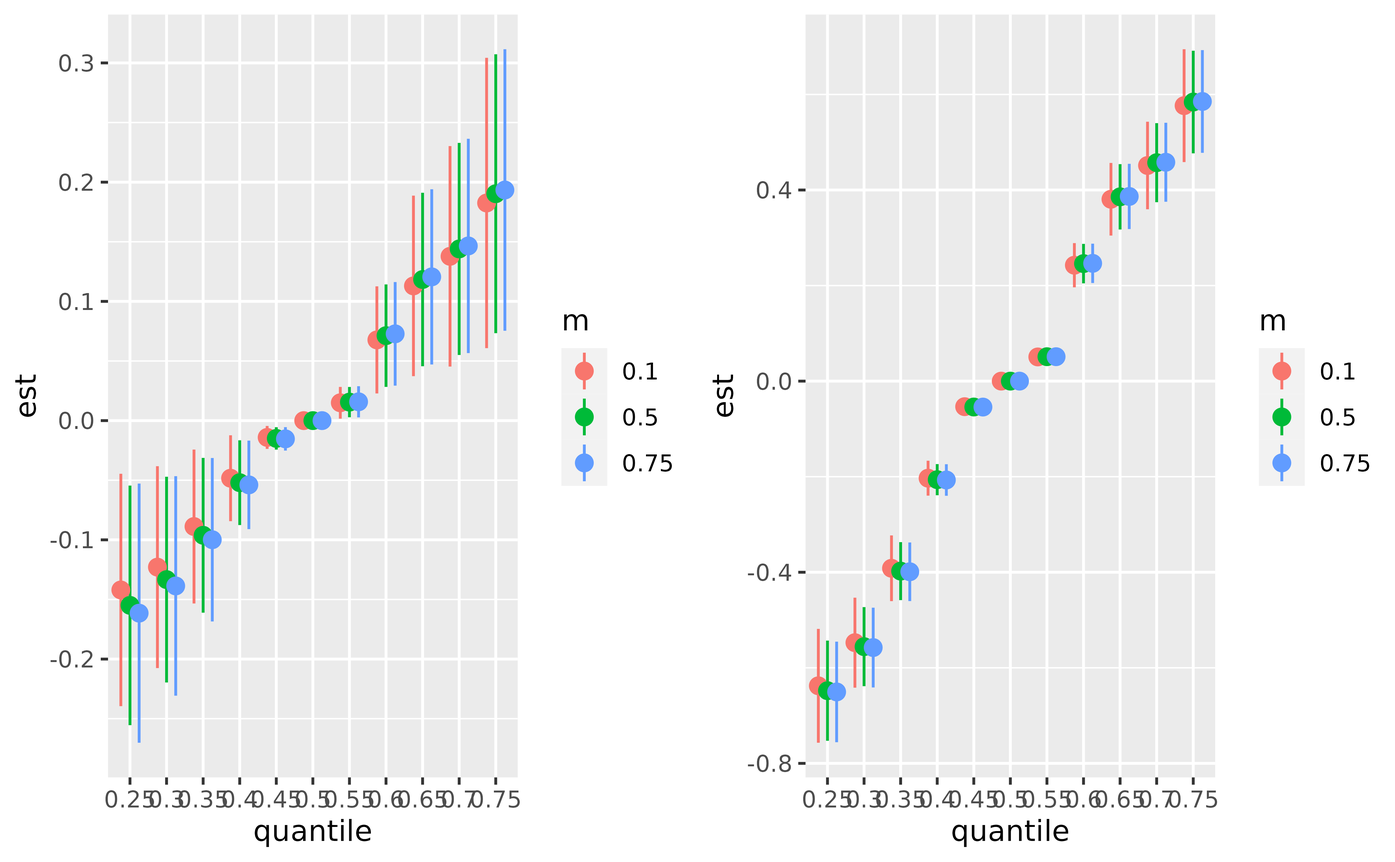
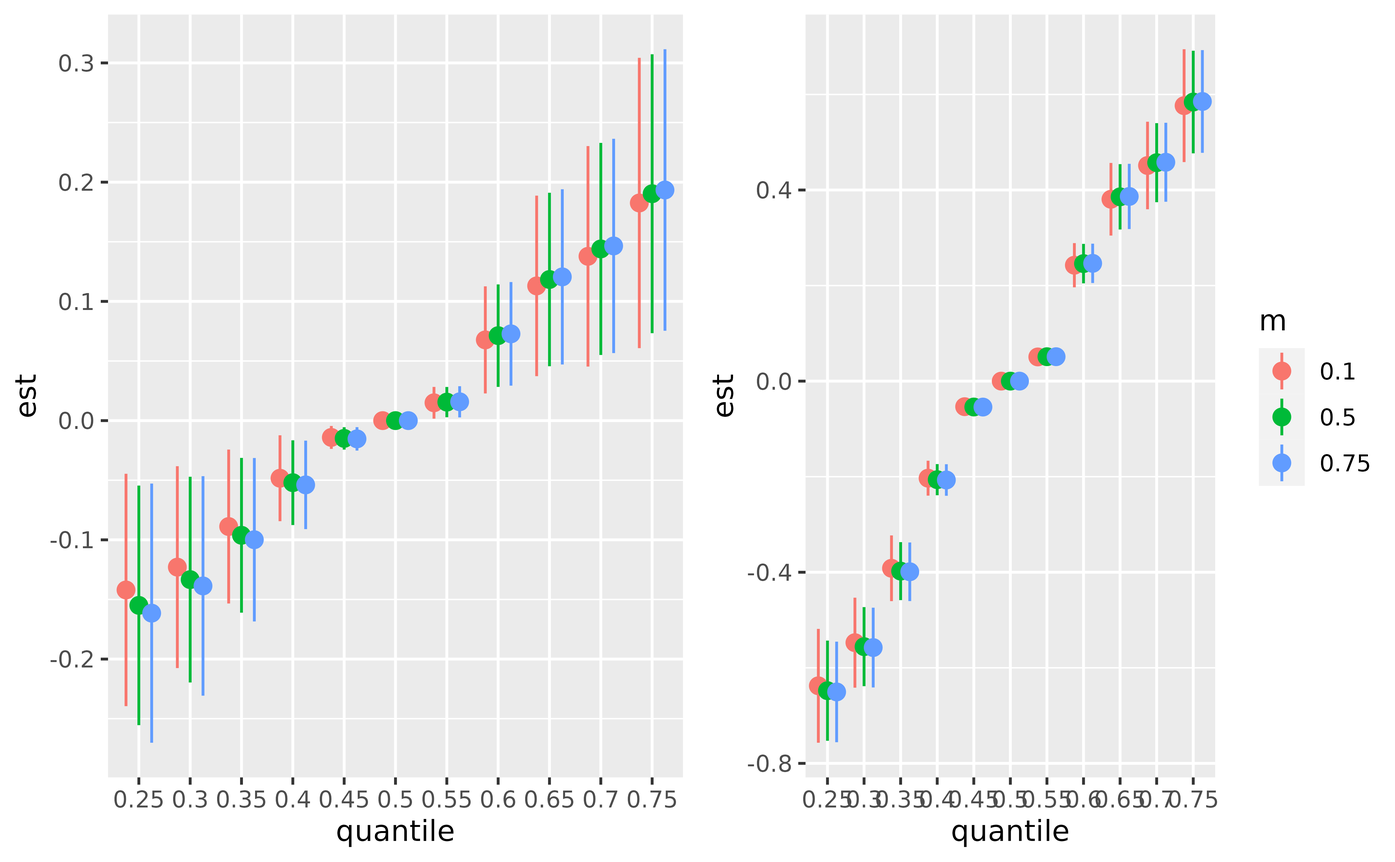
Deploying to gh-pages from @ zc2326/causalbkmr@f433a5dc855c5a01e3b7aa58e1669353ca69e9c9 🚀

diff --git a/articles/BKMRCMA_Effectof_singleZ.html b/articles/BKMRCMA_Effectof_singleZ.html
@@ -152,22 +152,12 @@ modifier on <span class="math inline">\(Y\)</span>. The sample size is
 <p>We can generate a basic sample dataset analogous to the one presented
 in the QuickStart guide and proceed to fit the BKMR models in the same
 way.</p>
-<div class="sourceCode" id="cb2"><pre class="downlit sourceCode r">
-<code class="sourceCode R"><span><span class="va">astar</span> <span class="op">&lt;-</span> <span class="fu"><a href="https://rdrr.io/r/base/c.html" class="external-link">c</a></span><span class="op">(</span><span class="fu"><a href="https://rdrr.io/r/base/apply.html" class="external-link">apply</a></span><span class="op">(</span><span class="va">A</span>, <span class="fl">2</span>, <span class="va">quantile</span>, probs<span class="op">=</span><span class="fl">0.25</span><span class="op">)</span><span class="op">)</span>  </span>
-<span><span class="va">a</span> <span class="op">&lt;-</span> <span class="fu"><a href="https://rdrr.io/r/base/c.html" class="external-link">c</a></span><span class="op">(</span><span class="fu"><a href="https://rdrr.io/r/base/apply.html" class="external-link">apply</a></span><span class="op">(</span><span class="va">A</span>, <span class="fl">2</span>, <span class="va">quantile</span>, probs<span class="op">=</span><span class="fl">0.75</span><span class="op">)</span><span class="op">)</span></span>
-<span></span>
-<span><span class="va">e.y10</span> <span class="op">=</span> <span class="fu"><a href="https://rdrr.io/r/stats/quantile.html" class="external-link">quantile</a></span><span class="op">(</span><span class="va">E.Y</span>, probs<span class="op">=</span><span class="fl">0.1</span><span class="op">)</span></span>
-<span><span class="va">e.y90</span> <span class="op">=</span> <span class="fu"><a href="https://rdrr.io/r/stats/quantile.html" class="external-link">quantile</a></span><span class="op">(</span><span class="va">E.Y</span>, probs<span class="op">=</span><span class="fl">0.9</span><span class="op">)</span></span>
-<span></span>
-<span><span class="va">TE.ey10</span> <span class="op">&lt;-</span> <span class="fu"><a href="../reference/TE.bkmr.html">TE.bkmr</a></span><span class="op">(</span>a<span class="op">=</span><span class="va">a</span>, astar<span class="op">=</span><span class="va">astar</span>, e.y <span class="op">=</span> <span class="va">e.y10</span>, fit.y.TE<span class="op">=</span><span class="va">fit.y.TE</span>, X.predict<span class="op">=</span><span class="va">X.predict</span>, alpha<span class="op">=</span><span class="fl">0.05</span>, sel<span class="op">=</span><span class="va">sel</span>, seed<span class="op">=</span><span class="fl">122</span><span class="op">)</span></span>
-<span></span>
-<span><span class="va">TE.ey90</span> <span class="op">&lt;-</span> <span class="fu"><a href="../reference/TE.bkmr.html">TE.bkmr</a></span><span class="op">(</span>a<span class="op">=</span><span class="va">a</span>, astar<span class="op">=</span><span class="va">astar</span>, e.y <span class="op">=</span> <span class="va">e.y90</span>, fit.y.TE<span class="op">=</span><span class="va">fit.y.TE</span>, X.predict<span class="op">=</span><span class="va">X.predict</span>, alpha<span class="op">=</span><span class="fl">0.05</span>, sel<span class="op">=</span><span class="va">sel</span>, seed<span class="op">=</span><span class="fl">122</span><span class="op">)</span></span></code></pre></div>
 <div class="section level3">
 <h3 id="joint-effect-of-co-exposure-to-z1-z2-and-z3-and-single-variable-effects-presented-when-the-effect-modifier-is-fixed-at-its-10th-percentile-or-90th-percentile">Joint effect of co-exposure to Z1, Z2 and Z3 and single variable
 effects, presented when the Effect Modifier is fixed at its 10th
 percentile or 90th percentile<a class="anchor" aria-label="anchor" href="#joint-effect-of-co-exposure-to-z1-z2-and-z3-and-single-variable-effects-presented-when-the-effect-modifier-is-fixed-at-its-10th-percentile-or-90th-percentile"></a>
 </h3>
-<div class="sourceCode" id="cb3"><pre class="downlit sourceCode r">
+<div class="sourceCode" id="cb2"><pre class="downlit sourceCode r">
 <code class="sourceCode R"><span><span class="va">list.fit.y.TE</span> <span class="op">&lt;-</span> <span class="fu"><a href="https://rdrr.io/r/base/list.html" class="external-link">list</a></span><span class="op">(</span><span class="va">fit.y.TE</span><span class="op">)</span> </span>
 <span><span class="fu"><a href="https://rdrr.io/r/base/colnames.html" class="external-link">colnames</a></span><span class="op">(</span><span class="va">list.fit.y.TE</span><span class="op">[[</span><span class="fl">1</span><span class="op">]</span><span class="op">]</span><span class="op">$</span><span class="va">Z</span><span class="op">)</span> <span class="op">&lt;-</span> <span class="fu"><a href="https://rdrr.io/r/base/c.html" class="external-link">c</a></span><span class="op">(</span><span class="st">"z1"</span>, <span class="st">"z2"</span>, <span class="st">"z3"</span>, <span class="st">"E.Y"</span><span class="op">)</span></span>
 <span></span>
@@ -240,7 +230,7 @@ them are at their 50th percentile, while the effect modifier
 presented when the age is fixed at its 10th percentile or 90th
 percentile<a class="anchor" aria-label="anchor" href="#single-exposure-associations-with-outcome-y-estimates-and-95-ci-presented-when-the-age-is-fixed-at-its-10th-percentile-or-90th-percentile"></a>
 </h3>
-<div class="sourceCode" id="cb4"><pre class="downlit sourceCode r">
+<div class="sourceCode" id="cb3"><pre class="downlit sourceCode r">
 <code class="sourceCode R"><span><span class="va">singvarrisk.y.TE.joint.x10</span>  <span class="op">&lt;-</span> <span class="fu"><a href="../reference/SingVarRiskSummaries.MI.html">SingVarRiskSummaries.MI</a></span><span class="op">(</span>BKMRfits<span class="op">=</span><span class="va">list.fit.y.TE</span>, which.z<span class="op">=</span><span class="fu"><a href="https://rdrr.io/r/base/c.html" class="external-link">c</a></span><span class="op">(</span><span class="fl">1</span>,<span class="fl">2</span>,<span class="fl">3</span><span class="op">)</span>, qs.diff <span class="op">=</span> <span class="fu"><a href="https://rdrr.io/r/base/c.html" class="external-link">c</a></span><span class="op">(</span><span class="fl">0.25</span>, <span class="fl">0.75</span><span class="op">)</span>, q.fixed <span class="op">=</span> <span class="fu"><a href="https://rdrr.io/r/base/c.html" class="external-link">c</a></span><span class="op">(</span><span class="fl">0.25</span>, <span class="fl">0.50</span>, <span class="fl">0.75</span><span class="op">)</span>, q.alwaysfixed <span class="op">=</span> <span class="fl">0.1</span>, index.alwaysfixed <span class="op">=</span> <span class="fl">4</span>, sel<span class="op">=</span><span class="va">sel</span>, method <span class="op">=</span> <span class="st">"approx"</span><span class="op">)</span></span>
 <span><span class="co">#&gt; Warning: `data_frame()` was deprecated in tibble 1.1.0.</span></span>
 <span><span class="co">#&gt; <span style="color: #00BBBB;">ℹ</span> Please use `tibble()` instead.</span></span>
@@ -248,7 +238,7 @@ percentile<a class="anchor" aria-label="anchor" href="#single-exposure-associati
 <span><span class="co">#&gt;   Please report the issue at <span style="color: #0000BB; font-style: italic;">&lt;https://github.com/zc2326/causalbkmr/issues&gt;</span>.</span></span>
 <span><span class="co">#&gt; [1] "1 out of 3 complete:  0 min run time"</span></span>
 <span><span class="co">#&gt; [1] "2 out of 3 complete:  0 min run time"</span></span>
-<span><span class="co">#&gt; [1] "3 out of 3 complete:  0 min run time"</span></span>
+<span><span class="co">#&gt; [1] "3 out of 3 complete:  0.01 min run time"</span></span>
 <span><span class="co">#&gt; Warning: `mutate_()` was deprecated in dplyr 0.7.0.</span></span>
 <span><span class="co">#&gt; <span style="color: #00BBBB;">ℹ</span> Please use `mutate()` instead.</span></span>
 <span><span class="co">#&gt; <span style="color: #00BBBB;">ℹ</span> See vignette('programming') for more help</span></span>

diff --git a/articles/BKMRCMA_QuickStart.html b/articles/BKMRCMA_QuickStart.html
@@ -368,8 +368,7 @@ NIE</p>
 <span><span class="va">CDEriskSummary10</span> <span class="op">=</span> <span class="fu"><a href="../reference/CDERiskSummaries.CMA.html">CDERiskSummaries.CMA</a></span><span class="op">(</span>fit.y <span class="op">=</span> <span class="va">fit.y</span>, e.y <span class="op">=</span> <span class="va">e.y10</span>, e.y.name <span class="op">=</span> <span class="st">"E.Y"</span>, m.name <span class="op">=</span> <span class="st">"m"</span>, sel <span class="op">=</span> <span class="va">sel</span><span class="op">)</span></span>
 <span> </span>
 <span><span class="va">plot_CDErisk10</span> <span class="op">&lt;-</span> <span class="fu"><a href="https://ggplot2.tidyverse.org/reference/ggplot.html" class="external-link">ggplot</a></span><span class="op">(</span><span class="va">CDEriskSummary10</span>, <span class="fu"><a href="https://ggplot2.tidyverse.org/reference/aes.html" class="external-link">aes</a></span><span class="op">(</span><span class="va">quantile</span>, <span class="va">est</span>, ymin <span class="op">=</span> <span class="va">est</span> <span class="op">-</span> <span class="fl">1.96</span><span class="op">*</span><span class="va">sd</span>, </span>
-<span>                             ymax <span class="op">=</span> <span class="va">est</span> <span class="op">+</span> <span class="fl">1.96</span><span class="op">*</span><span class="va">sd</span>, col <span class="op">=</span> <span class="va">m</span><span class="op">)</span><span class="op">)</span> <span class="op">+</span> </span>
-<span>  <span class="fu"><a href="https://ggplot2.tidyverse.org/reference/geom_linerange.html" class="external-link">geom_pointrange</a></span><span class="op">(</span>position <span class="op">=</span> <span class="fu"><a href="https://ggplot2.tidyverse.org/reference/position_dodge.html" class="external-link">position_dodge</a></span><span class="op">(</span>width <span class="op">=</span> <span class="fl">0.75</span><span class="op">)</span><span class="op">)</span>   </span>
+<span>                             ymax <span class="op">=</span> <span class="va">est</span> <span class="op">+</span> <span class="fl">1.96</span><span class="op">*</span><span class="va">sd</span>, col <span class="op">=</span> <span class="va">m</span><span class="op">)</span><span class="op">)</span> <span class="op">+</span> <span class="fu"><a href="https://ggplot2.tidyverse.org/reference/theme.html" class="external-link">theme</a></span><span class="op">(</span>legend.position<span class="op">=</span><span class="st">"none"</span><span class="op">)</span> <span class="op">+</span> <span class="fu"><a href="https://ggplot2.tidyverse.org/reference/geom_linerange.html" class="external-link">geom_pointrange</a></span><span class="op">(</span>position <span class="op">=</span> <span class="fu"><a href="https://ggplot2.tidyverse.org/reference/position_dodge.html" class="external-link">position_dodge</a></span><span class="op">(</span>width <span class="op">=</span> <span class="fl">0.75</span><span class="op">)</span><span class="op">)</span>   </span>
 <span></span>
 <span><span class="va">CDEriskSummary90</span> <span class="op">=</span> <span class="fu"><a href="../reference/CDERiskSummaries.CMA.html">CDERiskSummaries.CMA</a></span><span class="op">(</span>fit.y <span class="op">=</span> <span class="va">fit.y</span>, e.y <span class="op">=</span> <span class="va">e.y90</span>, e.y.name <span class="op">=</span> <span class="st">"E.Y"</span>, m.name <span class="op">=</span> <span class="st">"m"</span>, sel <span class="op">=</span> <span class="va">sel</span><span class="op">)</span></span>
 <span></span>
@@ -408,7 +407,7 @@ NIE</p>
 <span>  <span class="fu"><a href="https://ggplot2.tidyverse.org/reference/coord_flip.html" class="external-link">coord_flip</a></span><span class="op">(</span><span class="op">)</span></span>
 <span></span>
 <span><span class="fu"><a href="https://rpkgs.datanovia.com/ggpubr/reference/ggarrange.html" class="external-link">ggarrange</a></span><span class="op">(</span><span class="va">plot_singvar10</span>, <span class="va">plot_singvar90</span>, ncol<span class="op">=</span><span class="fl">2</span>, nrow <span class="op">=</span><span class="fl">1</span><span class="op">)</span></span></code></pre></div>
-<p><img src="BKMRCMA_QuickStart_files/figure-html/unnamed-chunk-11-1.png" width="2187.5"></p>
+<p><img src="BKMRCMA_QuickStart_files/figure-html/unnamed-chunk-11-1.png" width="700"></p>
 </div>
 <div class="section level3">
 <h3 id="controlled-direct-effect">Controlled Direct Effect<a class="anchor" aria-label="anchor" href="#controlled-direct-effect"></a>
@@ -420,7 +419,7 @@ NIE</p>
 <span>                                           sel<span class="op">=</span><span class="va">sel</span><span class="op">)</span> </span>
 <span><span class="va">plotCDE10</span> <span class="op">&lt;-</span> <span class="fu"><a href="https://ggplot2.tidyverse.org/reference/ggplot.html" class="external-link">ggplot</a></span><span class="op">(</span><span class="va">CDErisks.singvar10</span>, <span class="fu"><a href="https://ggplot2.tidyverse.org/reference/aes.html" class="external-link">aes</a></span><span class="op">(</span><span class="va">variable</span>, <span class="va">est</span>, ymin <span class="op">=</span> <span class="va">est</span> <span class="op">-</span> <span class="fl">1.96</span><span class="op">*</span><span class="va">sd</span>,</span>
 <span>                            ymax <span class="op">=</span> <span class="va">est</span> <span class="op">+</span> <span class="fl">1.96</span><span class="op">*</span><span class="va">sd</span>, col <span class="op">=</span> <span class="va">q.fixed</span>, linetype <span class="op">=</span> <span class="va">m.fixed</span><span class="op">)</span><span class="op">)</span> <span class="op">+</span></span>
-<span>  <span class="fu"><a href="https://ggplot2.tidyverse.org/reference/geom_linerange.html" class="external-link">geom_pointrange</a></span><span class="op">(</span>position <span class="op">=</span> <span class="fu"><a href="https://ggplot2.tidyverse.org/reference/position_dodge.html" class="external-link">position_dodge</a></span><span class="op">(</span>width <span class="op">=</span> <span class="fl">0.75</span><span class="op">)</span><span class="op">)</span> <span class="op">+</span></span>
+<span>  <span class="fu"><a href="https://ggplot2.tidyverse.org/reference/geom_linerange.html" class="external-link">geom_pointrange</a></span><span class="op">(</span>position <span class="op">=</span> <span class="fu"><a href="https://ggplot2.tidyverse.org/reference/position_dodge.html" class="external-link">position_dodge</a></span><span class="op">(</span>width <span class="op">=</span> <span class="fl">0.75</span><span class="op">)</span><span class="op">)</span> <span class="op">+</span><span class="fu"><a href="https://ggplot2.tidyverse.org/reference/theme.html" class="external-link">theme</a></span><span class="op">(</span>legend.position<span class="op">=</span><span class="st">"none"</span><span class="op">)</span><span class="op">+</span></span>
 <span>  <span class="fu"><a href="https://ggplot2.tidyverse.org/reference/coord_flip.html" class="external-link">coord_flip</a></span><span class="op">(</span><span class="op">)</span> </span>
 <span></span>
 <span><span class="va">CDErisks.singvar90</span> <span class="op">=</span> <span class="fu"><a href="../reference/CDESingVarRiskSummaries.CMA.html">CDESingVarRiskSummaries.CMA</a></span><span class="op">(</span>BKMRfits <span class="op">=</span> <span class="va">fit.y</span>,</span>

diff --git a/reference/OverallRiskSummaries.MI.html b/reference/OverallRiskSummaries.MI.html
@@ -170,23 +170,23 @@
 <span class="r-in"><span></span></span>
 <span class="r-in"><span><span class="va">overallrisks.MI</span> <span class="op">&lt;-</span> <span class="fu">OverallRiskSummaries.MI</span><span class="op">(</span>BKMRfits <span class="op">=</span> <span class="va">BKMRfits10</span>, qs <span class="op">=</span> <span class="fu"><a href="https://rdrr.io/r/base/seq.html" class="external-link">seq</a></span><span class="op">(</span><span class="fl">0.1</span>, <span class="fl">0.9</span>, by <span class="op">=</span> <span class="fl">0.05</span><span class="op">)</span>,  q.fixed <span class="op">=</span> <span class="fl">0.5</span>, sel <span class="op">=</span> <span class="va">sel.MI</span>, method <span class="op">=</span> <span class="st">"approx"</span><span class="op">)</span></span></span>
 <span class="r-out co"><span class="r-pr">#&gt;</span> [1] "approx method"</span>
-<span class="r-out co"><span class="r-pr">#&gt;</span> [1] "1 out of 17 complete:  0.04 min run time"</span>
-<span class="r-out co"><span class="r-pr">#&gt;</span> [1] "2 out of 17 complete:  0.04 min run time"</span>
-<span class="r-out co"><span class="r-pr">#&gt;</span> [1] "3 out of 17 complete:  0.05 min run time"</span>
-<span class="r-out co"><span class="r-pr">#&gt;</span> [1] "4 out of 17 complete:  0.05 min run time"</span>
-<span class="r-out co"><span class="r-pr">#&gt;</span> [1] "5 out of 17 complete:  0.06 min run time"</span>
-<span class="r-out co"><span class="r-pr">#&gt;</span> [1] "6 out of 17 complete:  0.06 min run time"</span>
-<span class="r-out co"><span class="r-pr">#&gt;</span> [1] "7 out of 17 complete:  0.06 min run time"</span>
-<span class="r-out co"><span class="r-pr">#&gt;</span> [1] "8 out of 17 complete:  0.07 min run time"</span>
-<span class="r-out co"><span class="r-pr">#&gt;</span> [1] "9 out of 17 complete:  0.07 min run time"</span>
-<span class="r-out co"><span class="r-pr">#&gt;</span> [1] "10 out of 17 complete:  0.07 min run time"</span>
-<span class="r-out co"><span class="r-pr">#&gt;</span> [1] "11 out of 17 complete:  0.07 min run time"</span>
-<span class="r-out co"><span class="r-pr">#&gt;</span> [1] "12 out of 17 complete:  0.08 min run time"</span>
-<span class="r-out co"><span class="r-pr">#&gt;</span> [1] "13 out of 17 complete:  0.08 min run time"</span>
-<span class="r-out co"><span class="r-pr">#&gt;</span> [1] "14 out of 17 complete:  0.08 min run time"</span>
-<span class="r-out co"><span class="r-pr">#&gt;</span> [1] "15 out of 17 complete:  0.09 min run time"</span>
-<span class="r-out co"><span class="r-pr">#&gt;</span> [1] "16 out of 17 complete:  0.09 min run time"</span>
-<span class="r-out co"><span class="r-pr">#&gt;</span> [1] "17 out of 17 complete:  0.09 min run time"</span>
+<span class="r-out co"><span class="r-pr">#&gt;</span> [1] "1 out of 17 complete:  0.05 min run time"</span>
+<span class="r-out co"><span class="r-pr">#&gt;</span> [1] "2 out of 17 complete:  0.06 min run time"</span>
+<span class="r-out co"><span class="r-pr">#&gt;</span> [1] "3 out of 17 complete:  0.06 min run time"</span>
+<span class="r-out co"><span class="r-pr">#&gt;</span> [1] "4 out of 17 complete:  0.07 min run time"</span>
+<span class="r-out co"><span class="r-pr">#&gt;</span> [1] "5 out of 17 complete:  0.07 min run time"</span>
+<span class="r-out co"><span class="r-pr">#&gt;</span> [1] "6 out of 17 complete:  0.08 min run time"</span>
+<span class="r-out co"><span class="r-pr">#&gt;</span> [1] "7 out of 17 complete:  0.08 min run time"</span>
+<span class="r-out co"><span class="r-pr">#&gt;</span> [1] "8 out of 17 complete:  0.09 min run time"</span>
+<span class="r-out co"><span class="r-pr">#&gt;</span> [1] "9 out of 17 complete:  0.09 min run time"</span>
+<span class="r-out co"><span class="r-pr">#&gt;</span> [1] "10 out of 17 complete:  0.1 min run time"</span>
+<span class="r-out co"><span class="r-pr">#&gt;</span> [1] "11 out of 17 complete:  0.1 min run time"</span>
+<span class="r-out co"><span class="r-pr">#&gt;</span> [1] "12 out of 17 complete:  0.11 min run time"</span>
+<span class="r-out co"><span class="r-pr">#&gt;</span> [1] "13 out of 17 complete:  0.11 min run time"</span>
+<span class="r-out co"><span class="r-pr">#&gt;</span> [1] "14 out of 17 complete:  0.11 min run time"</span>
+<span class="r-out co"><span class="r-pr">#&gt;</span> [1] "15 out of 17 complete:  0.12 min run time"</span>
+<span class="r-out co"><span class="r-pr">#&gt;</span> [1] "16 out of 17 complete:  0.12 min run time"</span>
+<span class="r-out co"><span class="r-pr">#&gt;</span> [1] "17 out of 17 complete:  0.13 min run time"</span>
 <span class="r-in"><span><span class="fu">ggplot</span><span class="op">(</span><span class="va">overallrisks.MI</span>, <span class="fu">aes</span><span class="op">(</span><span class="va">quantile</span>, <span class="va">est</span>, ymin <span class="op">=</span> <span class="va">est</span> <span class="op">-</span> <span class="fl">1.96</span> <span class="op">*</span> <span class="va">sd</span>, ymax <span class="op">=</span> <span class="va">est</span> <span class="op">+</span> <span class="fl">1.96</span> <span class="op">*</span> <span class="va">sd</span><span class="op">)</span><span class="op">)</span> <span class="op">+</span></span></span>
 <span class="r-in"><span><span class="fu">geom_hline</span><span class="op">(</span>yintercept <span class="op">=</span> <span class="fl">00</span>, linetype <span class="op">=</span> <span class="st">"dashed"</span>, color <span class="op">=</span> <span class="st">"gray"</span><span class="op">)</span> <span class="op">+</span></span></span>
 <span class="r-in"><span>  <span class="fu">geom_pointrange</span><span class="op">(</span><span class="op">)</span><span class="op">+</span> <span class="fu">ggtitle</span><span class="op">(</span><span class="st">""</span><span class="op">)</span> <span class="op">+</span> <span class="fu">scale_y_continuous</span><span class="op">(</span>name<span class="op">=</span><span class="st">"estimate"</span><span class="op">)</span></span></span>

diff --git a/articles/MI_BKMR.html b/articles/MI_BKMR.html
@@ -189,9 +189,9 @@ fits:</p>
 <div class="sourceCode" id="cb7"><pre class="downlit sourceCode r">
 <code class="sourceCode R"><span><span class="va">singvarrisk.MI</span> <span class="op">&lt;-</span> <span class="fu"><a href="../reference/SingVarRiskSummaries.MI.html">SingVarRiskSummaries.MI</a></span><span class="op">(</span>BKMRfits<span class="op">=</span><span class="va">BKMRfits10</span>, qs.diff <span class="op">=</span> <span class="fu"><a href="https://rdrr.io/r/base/c.html" class="external-link">c</a></span><span class="op">(</span><span class="fl">0.25</span>, <span class="fl">0.75</span><span class="op">)</span>,</span>
 <span>                         q.fixed <span class="op">=</span> <span class="fu"><a href="https://rdrr.io/r/base/c.html" class="external-link">c</a></span><span class="op">(</span><span class="fl">0.25</span>, <span class="fl">0.50</span>, <span class="fl">0.75</span><span class="op">)</span>, sel<span class="op">=</span><span class="va">sel.MI</span>, method <span class="op">=</span> <span class="st">"approx"</span><span class="op">)</span></span>
-<span><span class="co">#&gt; [1] "1 out of 3 complete:  0.01 min run time"</span></span>
-<span><span class="co">#&gt; [1] "2 out of 3 complete:  0.03 min run time"</span></span>
-<span><span class="co">#&gt; [1] "3 out of 3 complete:  0.04 min run time"</span></span></code></pre></div>
+<span><span class="co">#&gt; [1] "1 out of 3 complete:  0.02 min run time"</span></span>
+<span><span class="co">#&gt; [1] "2 out of 3 complete:  0.04 min run time"</span></span>
+<span><span class="co">#&gt; [1] "3 out of 3 complete:  0.06 min run time"</span></span></code></pre></div>
 <p>Rerun the <code>SingVarRiskSummaries.MI</code> function but now
 <em>fixing</em> the quantile for <code>z2</code> to 0.25 (for all
 comparisons)</p>
@@ -207,8 +207,8 @@ funny).</p>
 <span>                               q.alwaysfixed <span class="op">=</span> <span class="fl">0.25</span>, index.alwaysfixed <span class="op">=</span> <span class="fl">2</span>, </span>
 <span>                               sel<span class="op">=</span><span class="va">sel.MI</span>, method <span class="op">=</span> <span class="st">"approx"</span><span class="op">)</span></span>
 <span><span class="co">#&gt; [1] "1 out of 3 complete:  0.01 min run time"</span></span>
-<span><span class="co">#&gt; [1] "2 out of 3 complete:  0.02 min run time"</span></span>
-<span><span class="co">#&gt; [1] "3 out of 3 complete:  0.03 min run time"</span></span>
+<span><span class="co">#&gt; [1] "2 out of 3 complete:  0.03 min run time"</span></span>
+<span><span class="co">#&gt; [1] "3 out of 3 complete:  0.04 min run time"</span></span>
 <span> </span>
 <span><span class="co">## plot the single variable dataframe for the MI fits</span></span>
 <span><span class="fu"><a href="https://ggplot2.tidyverse.org/reference/ggplot.html" class="external-link">ggplot</a></span><span class="op">(</span><span class="va">singvarrisk.MI</span>, <span class="fu"><a href="https://ggplot2.tidyverse.org/reference/aes.html" class="external-link">aes</a></span><span class="op">(</span><span class="va">variable</span>, <span class="va">est</span>, ymin <span class="op">=</span> <span class="va">est</span> <span class="op">-</span> <span class="fl">1.96</span><span class="op">*</span><span class="va">sd</span>,  </span>
@@ -241,10 +241,10 @@ dataframes.</p>
 <div class="sourceCode" id="cb10"><pre class="downlit sourceCode r">
 <code class="sourceCode R"><span><span class="va">univar.MI</span> <span class="op">&lt;-</span> <span class="fu"><a href="../reference/PredictorResponseUnivar.MI.html">PredictorResponseUnivar.MI</a></span><span class="op">(</span><span class="va">BKMRfits10</span>, ngrid <span class="op">=</span> <span class="fl">50</span>, q.fixed <span class="op">=</span> <span class="fl">0.5</span>, </span>
 <span>                                        sel <span class="op">=</span> <span class="va">sel.MI</span>, method<span class="op">=</span><span class="st">"approx"</span><span class="op">)</span> </span>
-<span><span class="co">#&gt; [1] "1 out of 4 complete:  0 min run time"</span></span>
+<span><span class="co">#&gt; [1] "1 out of 4 complete:  0.01 min run time"</span></span>
 <span><span class="co">#&gt; [1] "2 out of 4 complete:  0.01 min run time"</span></span>
-<span><span class="co">#&gt; [1] "3 out of 4 complete:  0.01 min run time"</span></span>
-<span><span class="co">#&gt; [1] "4 out of 4 complete:  0.01 min run time"</span></span></code></pre></div>
+<span><span class="co">#&gt; [1] "3 out of 4 complete:  0.02 min run time"</span></span>
+<span><span class="co">#&gt; [1] "4 out of 4 complete:  0.02 min run time"</span></span></code></pre></div>
 <p>Plot univariate response functions:</p>
 <div class="sourceCode" id="cb11"><pre class="downlit sourceCode r">
 <code class="sourceCode R"><span><span class="fu"><a href="https://ggplot2.tidyverse.org/reference/ggplot.html" class="external-link">ggplot</a></span><span class="op">(</span><span class="va">univar.MI</span>, <span class="fu"><a href="https://ggplot2.tidyverse.org/reference/aes.html" class="external-link">aes</a></span><span class="op">(</span><span class="va">z</span>, <span class="va">est</span>, ymin <span class="op">=</span> <span class="va">est</span> <span class="op">-</span> <span class="fl">1.96</span><span class="op">*</span><span class="va">se</span>, ymax <span class="op">=</span> <span class="va">est</span> <span class="op">+</span> <span class="fl">1.96</span><span class="op">*</span><span class="va">se</span><span class="op">)</span><span class="op">)</span> <span class="op">+</span> </span>

diff --git a/articles/bkmrcma_example_scenario2.html b/articles/bkmrcma_example_scenario2.html
@@ -305,16 +305,16 @@ NIE</p>
 <code class="sourceCode R"><span><span class="va">mediationeffects.ey10</span><span class="op">$</span><span class="va">est</span></span>
 <span><span class="co">#&gt;              mean      median       lower     upper        sd</span></span>
 <span><span class="co">#&gt; TE     0.30916635 0.314290915 -0.02660571 0.5727188 0.1549434</span></span>
-<span><span class="co">#&gt; NDE    0.29834270 0.301233360 -0.33291485 0.9103089 0.3239850</span></span>
-<span><span class="co">#&gt; NIE    0.01082364 0.004102463 -0.59770537 0.6713659 0.3193340</span></span>
+<span><span class="co">#&gt; NDE    0.29818254 0.301233360 -0.33291485 0.9103089 0.3238701</span></span>
+<span><span class="co">#&gt; NIE    0.01098381 0.004102463 -0.59739418 0.6713659 0.3191244</span></span>
 <span><span class="co">#&gt; CDE10% 0.28813715 0.295343850 -0.10165967 0.6682970 0.1904052</span></span>
 <span><span class="co">#&gt; CDE50% 0.34321913 0.342000447 -0.04373672 0.7398543 0.1917391</span></span>
 <span><span class="co">#&gt; CDE75% 0.34321913 0.342000447 -0.04373672 0.7398543 0.1917391</span></span>
 <span><span class="va">mediationeffects.ey90</span><span class="op">$</span><span class="va">est</span></span>
 <span><span class="co">#&gt;                mean      median       lower     upper        sd</span></span>
 <span><span class="co">#&gt; TE      0.415301283  0.40574600  0.11468494 0.7543082 0.1656023</span></span>
-<span><span class="co">#&gt; NDE     0.422781310  0.40948509 -0.27526006 1.1759479 0.3487023</span></span>
-<span><span class="co">#&gt; NIE    -0.007480027 -0.01404017 -0.74070549 0.7414162 0.3649172</span></span>
+<span><span class="co">#&gt; NDE     0.422672544  0.40739621 -0.27526006 1.1759479 0.3486962</span></span>
+<span><span class="co">#&gt; NIE    -0.007371261 -0.01404017 -0.74070549 0.7414162 0.3648544</span></span>
 <span><span class="co">#&gt; CDE10%  0.386433102  0.39061531 -0.03306667 0.8217995 0.2082319</span></span>
 <span><span class="co">#&gt; CDE50%  0.437912375  0.43447120  0.05164739 0.8499772 0.2022834</span></span>
 <span><span class="co">#&gt; CDE75%  0.437912375  0.43447120  0.05164739 0.8499772 0.2022834</span></span></code></pre></div>

diff --git a/articles/bkmrcma_example_scenario3.html b/articles/bkmrcma_example_scenario3.html
@@ -310,16 +310,16 @@ NIE</p>
 <code class="sourceCode R"><span><span class="va">mediationeffects.ey10</span><span class="op">$</span><span class="va">est</span></span>
 <span><span class="co">#&gt;               mean      median      lower     upper        sd</span></span>
 <span><span class="co">#&gt; TE      0.94593757  0.94804084  0.7198756 1.1688652 0.1131085</span></span>
-<span><span class="co">#&gt; NDE     0.97650700  0.96133770  0.4041084 1.5122865 0.2878012</span></span>
-<span><span class="co">#&gt; NIE    -0.03056943 -0.03241357 -0.5850728 0.5677202 0.2879940</span></span>
+<span><span class="co">#&gt; NDE     0.97687919  0.96133770  0.4041084 1.5122865 0.2876060</span></span>
+<span><span class="co">#&gt; NIE    -0.03094162 -0.03898101 -0.5850728 0.5677202 0.2881401</span></span>
 <span><span class="co">#&gt; CDE10%  0.84526794  0.85391990  0.5286018 1.0973116 0.1433318</span></span>
 <span><span class="co">#&gt; CDE50%  0.86766860  0.87805519  0.5693485 1.1282255 0.1374816</span></span>
 <span><span class="co">#&gt; CDE75%  0.86766860  0.87805519  0.5693485 1.1282255 0.1374816</span></span>
 <span><span class="va">mediationeffects.ey90</span><span class="op">$</span><span class="va">est</span></span>
 <span><span class="co">#&gt;              mean     median      lower     upper        sd</span></span>
 <span><span class="co">#&gt; TE     0.94638543 0.94983721  0.7192391 1.1691483 0.1166110</span></span>
-<span><span class="co">#&gt; NDE    0.93592364 0.92888322  0.2986041 1.5583039 0.3127008</span></span>
-<span><span class="co">#&gt; NIE    0.01046179 0.01401281 -0.5507629 0.6581325 0.3196764</span></span>
+<span><span class="co">#&gt; NDE    0.93585319 0.92888322  0.2986041 1.5583039 0.3126441</span></span>
+<span><span class="co">#&gt; NIE    0.01053224 0.01401281 -0.5507629 0.6581325 0.3195609</span></span>
 <span><span class="co">#&gt; CDE10% 0.83077989 0.83275278  0.5200515 1.1285557 0.1525085</span></span>
 <span><span class="co">#&gt; CDE50% 0.85236830 0.85845312  0.5757799 1.1208304 0.1426577</span></span>
 <span><span class="co">#&gt; CDE75% 0.85236830 0.85845312  0.5757799 1.1208304 0.1426577</span></span></code></pre></div>
